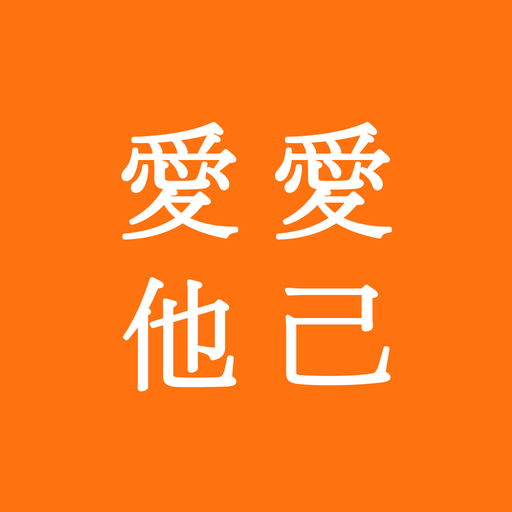
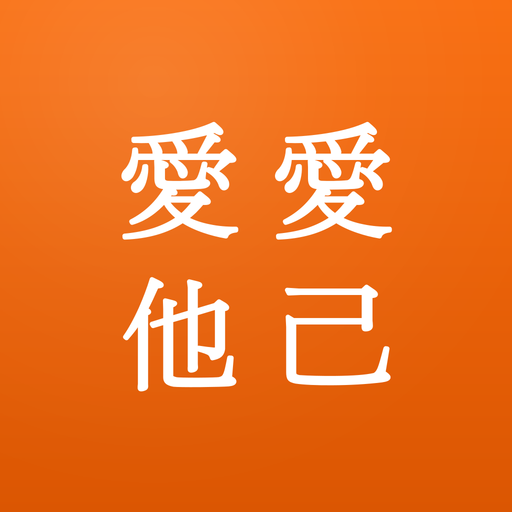
앱 아이콘을 한 단계 진한 주황 유리판으로
화면 안에서 알맞은 밝은 주황(#FF7210)이 홈 화면에서는 다른 앱들 사이에서
붕 떠 보였습니다. 아이콘 바탕만 평균 #EA6209로 한 단계 눌렀습니다.
brand-500과 BRAND_COLOR(주소창 색)는 그대로입니다.

유리 느낌은 세 겹입니다 — 위가 밝고 아래로 진해지는 바탕, 왼쪽 위에서
떨어지는 빛무리, 둘레의 흰 실선(위가 밝고 아래로 옅어짐). 48px까지 줄어도
무늬로 읽히지 않고 재질로만 남을 만큼만 넣었습니다. 처음 잡은 값은 빛이
세서 오히려 밝아 보여, 빛무리를 0.20에서 0.13으로 줄였습니다.

바탕이 단색이 아니게 되면서 드러난 것 하나 — 마스커블 아이콘은 여백만큼
바탕이 작게 그려지고 남는 자리를 flatten이 메우고 있었습니다. 단색일 때는
티가 안 났지만 유리판에서는 네모난 이음매가 보여서, 모서리를 깎지 않는
아이콘은 바탕을 화면 끝까지 채우게 했습니다. 여백은 글자에만 씁니다.

diff --git a/README.md b/README.md
@@ -408,7 +408,10 @@ storage.rules               (지금은 안 씀 — Blaze로 올릴 때를 위해
 
 브랜드 기준색은 **`#FF7210`** 입니다.
 
-- 대표 주황: `#FF7210` (`brand-500`) — 버튼·말풍선·테마색·아이콘·배지
+- 대표 주황: `#FF7210` (`brand-500`) — 버튼·말풍선·테마색·배지
+- 홈 화면 아이콘 바탕: 평균 `#EA6209` — 위아래로 살짝 벌린 주황 유리판입니다.
+  화면 안에서 알맞은 밝은 주황이 홈 화면에서는 붕 떠 보여 한 단계 진하게 씁니다.
+  값은 `scripts/generate-icons.mjs` 한 곳에 있고, 고친 뒤 `npm run icons`.
 - 흰 바탕 위 주황 글씨: `#C25100` (`brand-700`) — 대비 4.7:1
 - 배경: `#FFFAF6` — 아주 옅은 주황빛 오프화이트
 
